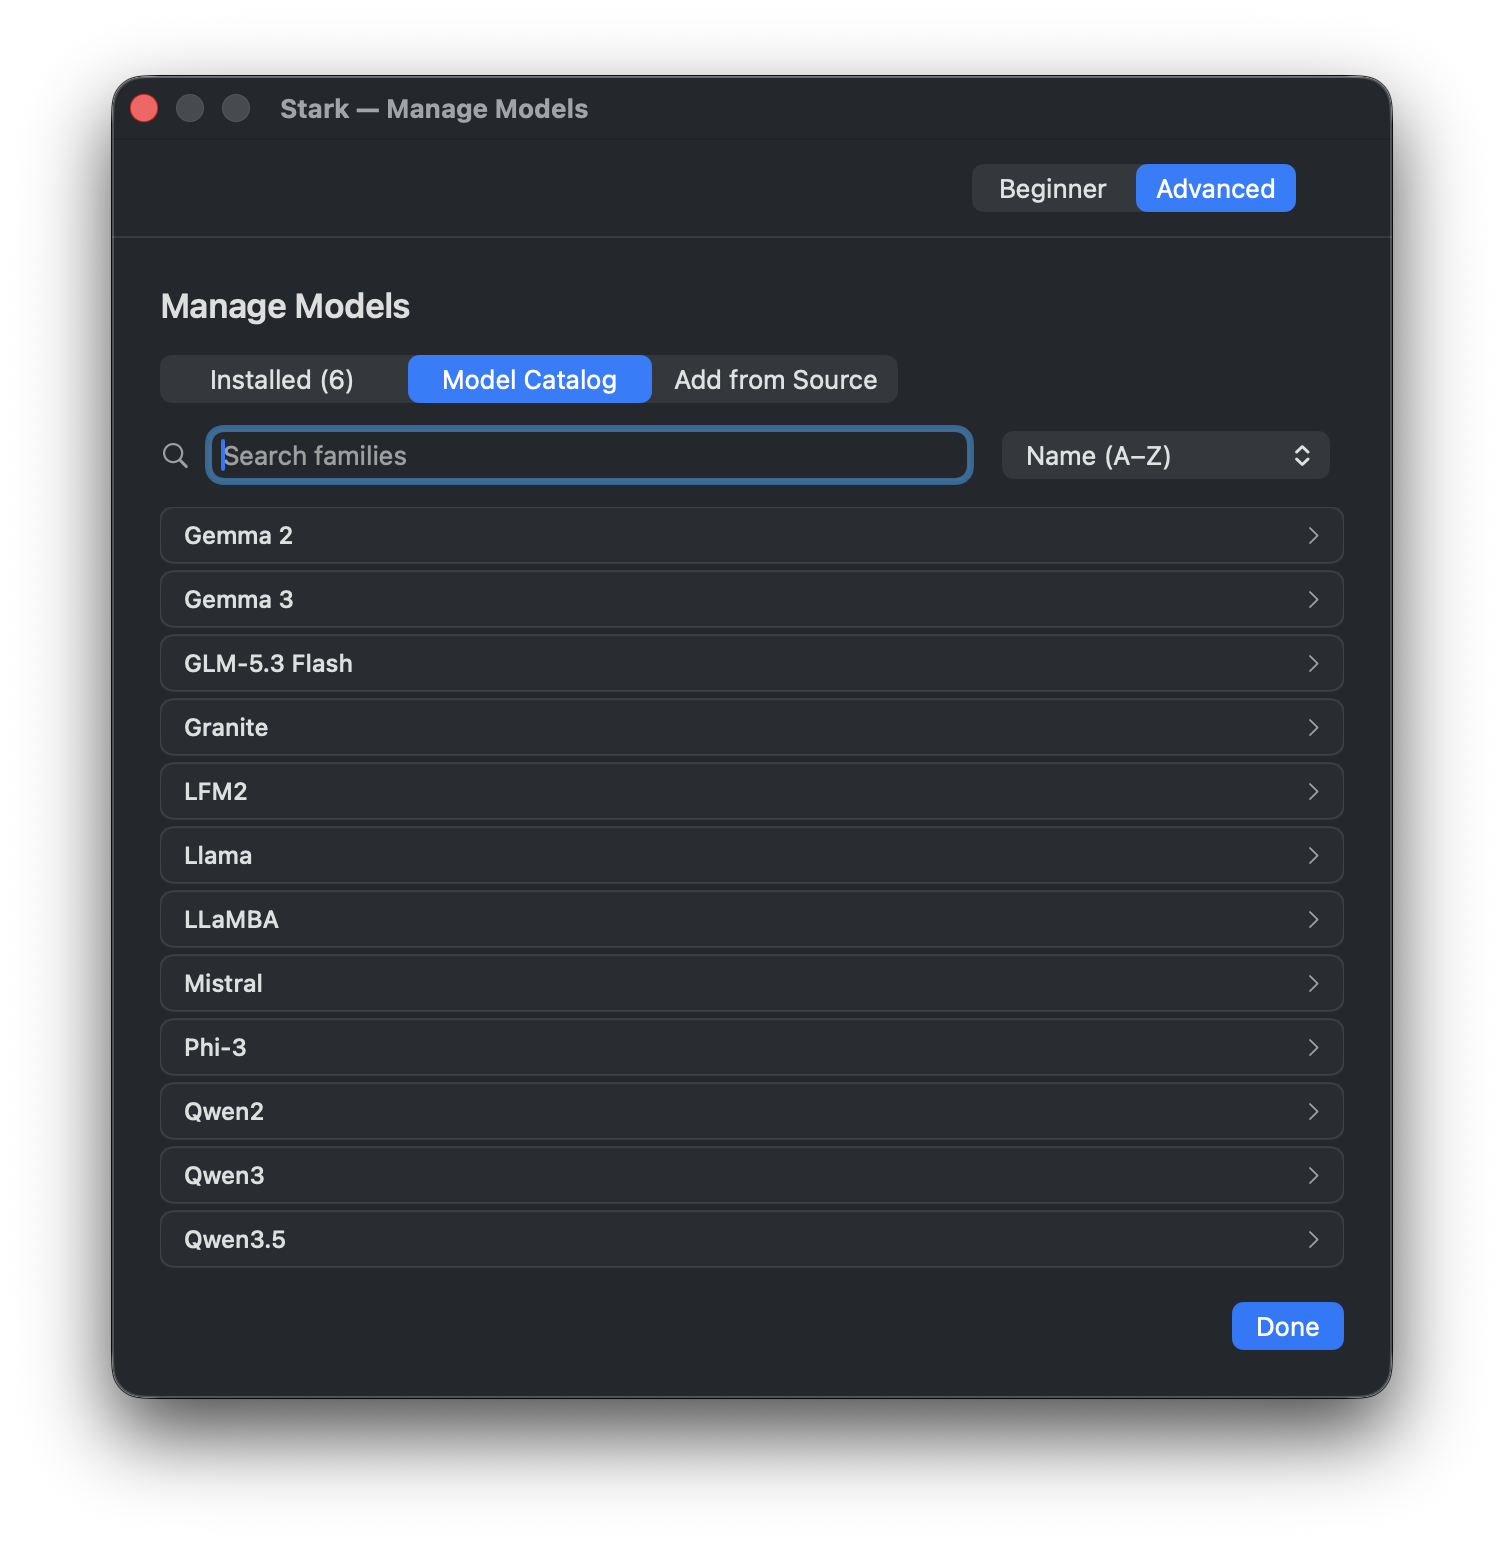
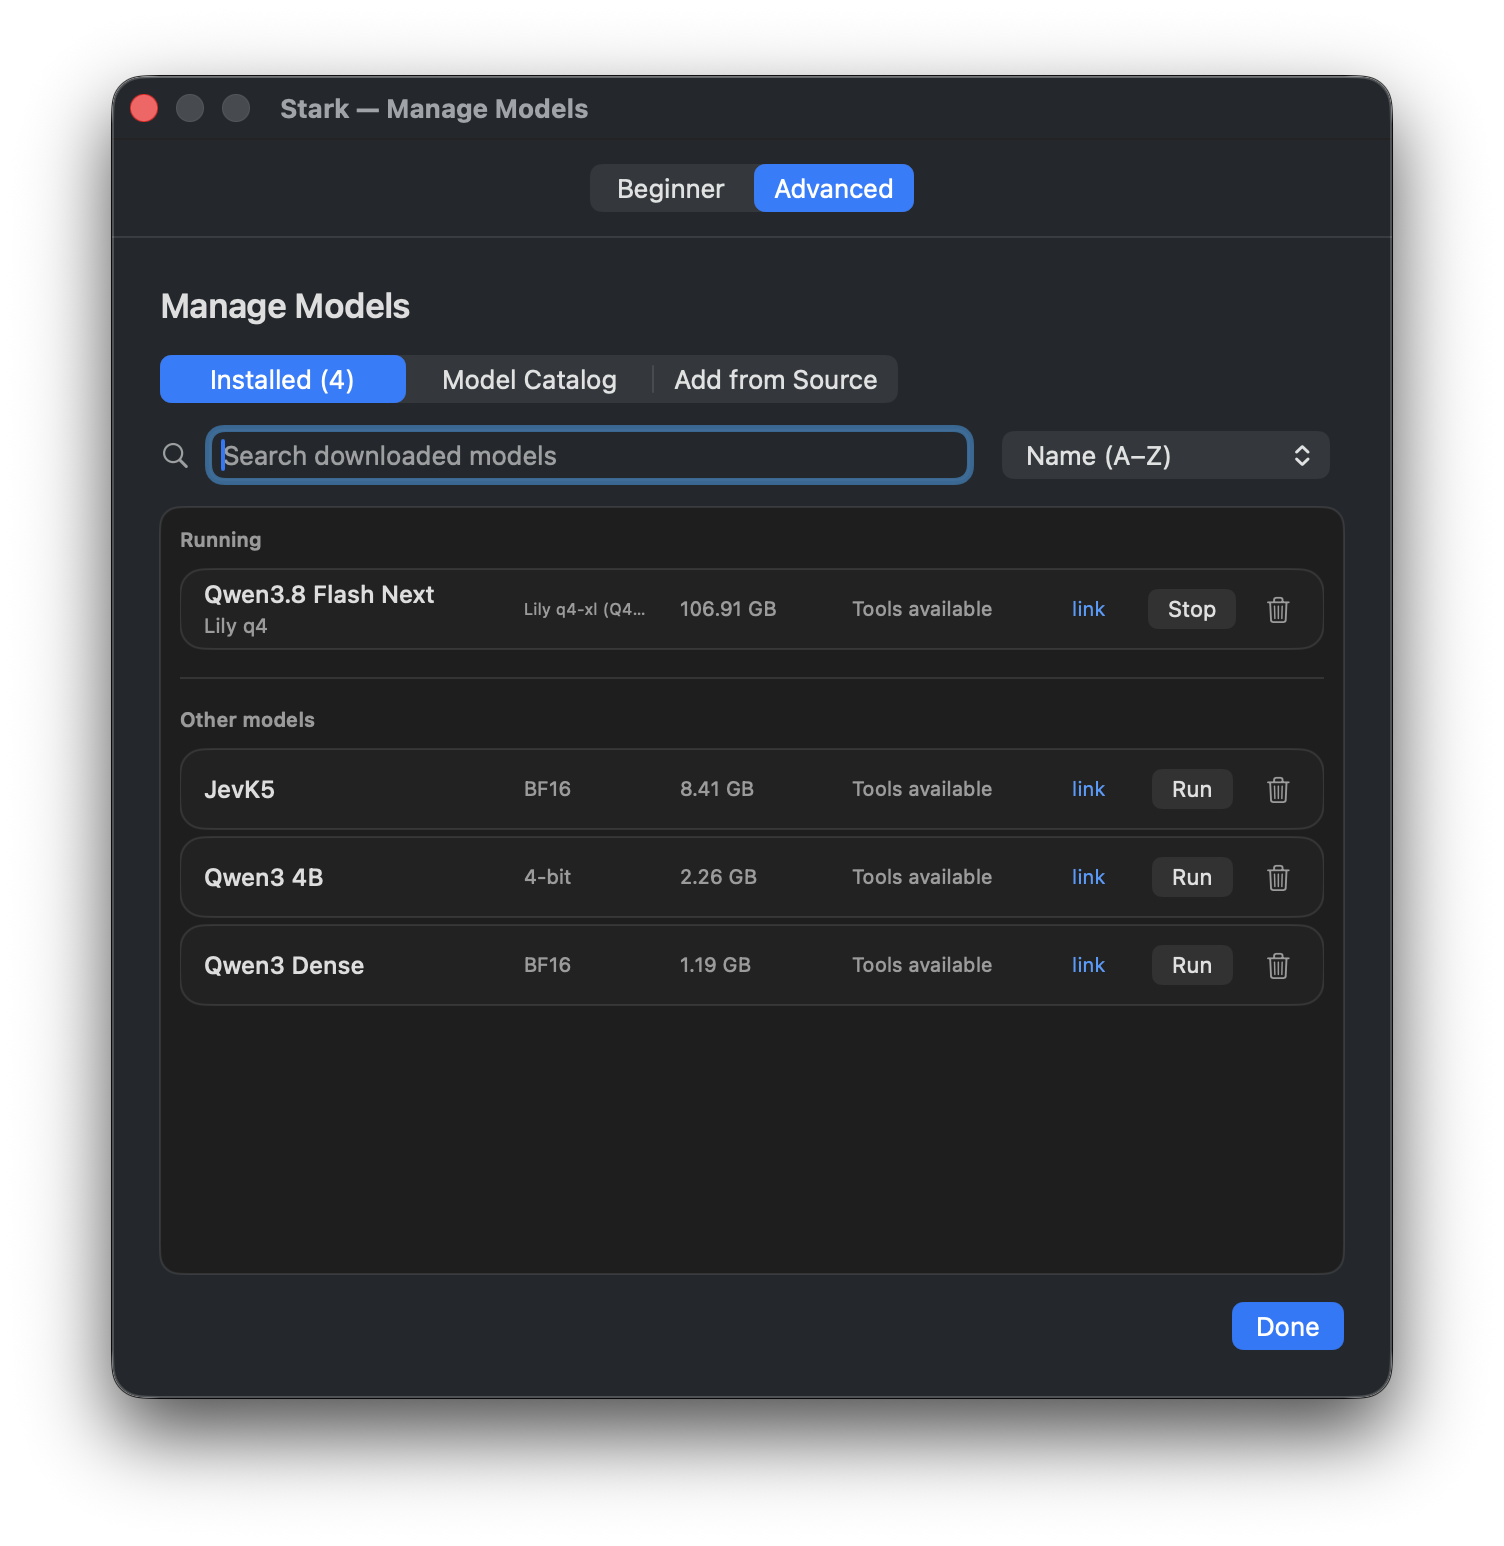
docs(website): refresh app screenshots and connections caption
AI-Assisted: codex

diff --git a/website/public/index.html b/website/public/index.html
@@ -50,9 +50,9 @@
     <section class="product-section section-pad wrap" id="product" aria-labelledby="product-title">
       <div class="story-heading"><p class="eyebrow">MEET THE MAC APP</p><h2 id="product-title">A home for your local AI.</h2><p>Choose a model, run it from your menu bar, and start chatting.</p></div>
       <div class="product-gallery">
-        <figure class="product-shot"><div class="product-shot-frame"><img src="assets/stark-guided-setup.png" width="1624" height="1594" alt="Earlier Stark Guided Setup with writing, files and coding starting points and a five-step setup sidebar" loading="lazy" decoding="async"></div><figcaption><span class="shot-index">01 / GET STARTED</span><h3>Find a starting point.</h3><p>Guided setup helps you find a model for your Mac. Earlier interface shown; the new flow is described below.</p></figcaption></figure>
-        <figure class="product-shot"><div class="product-shot-frame"><img src="assets/stark-model-catalog.png" width="1504" height="1546" alt="Stark Model Catalog with supported model families and tabs for installed models and source imports" loading="lazy" decoding="async"></div><figcaption><span class="shot-index">02 / MAKE IT YOURS</span><h3>Choose your model.</h3><p>Browse the catalog or import a compatible model.</p></figcaption></figure>
-        <figure class="product-shot"><div class="product-shot-frame"><img src="assets/stark-playground.png" width="1224" height="1586" alt="Stark Playground in Chat mode with a running model, a short greeting exchange, request statistics and a switch to Decision mode" loading="lazy" decoding="async"></div><figcaption><span class="shot-index">03 / USE PLAYGROUND</span><h3>Try a conversation.</h3><p>Write, ask questions and explore ideas locally.</p></figcaption></figure>
+        <figure class="product-shot"><div class="product-shot-frame"><img src="assets/stark-guided-setup.png" width="1624" height="1888" alt="Stark Guided Setup connecting a running local model to OpenCode in the beginner flow" loading="lazy" decoding="async"></div><figcaption><span class="shot-index">01 / GET STARTED</span><h3>Find a starting point.</h3><p>Guided setup helps you choose a model for your Mac and connect it to your work.</p></figcaption></figure>
+        <figure class="product-shot"><div class="product-shot-frame"><img src="assets/stark-model-catalog.png" width="1504" height="1546" alt="Stark Manage Models showing installed models, a running model and tabs for the model catalog and source imports" loading="lazy" decoding="async"></div><figcaption><span class="shot-index">02 / MAKE IT YOURS</span><h3>Choose your model.</h3><p>Browse the catalog or import a compatible model.</p></figcaption></figure>
+        <figure class="product-shot"><div class="product-shot-frame"><img src="assets/stark-connections.png" width="1364" height="1648" alt="Stark Connections showing a running local model and access allowed for OpenWork and OpenCode Desktop" loading="lazy" decoding="async"></div><figcaption><span class="shot-index">03 / CONNECT YOUR APPS</span><h3>Work in your favorite apps.</h3><p>Connect Stark to apps such as OpenWork or OpenCode Desktop to use your local model where you work.</p></figcaption></figure>
       </div>
     </section>
 

diff --git a/website/public/styles.css b/website/public/styles.css
@@ -1879,9 +1879,9 @@ code {
   aspect-ratio:var(--crop-width) / var(--crop-height);
   border-radius:10px
 }
-.product-shot:nth-child(1) { --source-width:1624; --crop-width:1400; --crop-height:1370 }
+.product-shot:nth-child(1) { --source-width:1624; --crop-width:1400; --crop-height:1664 }
 .product-shot:nth-child(2) { --source-width:1504; --crop-width:1280; --crop-height:1322 }
-.product-shot:nth-child(3) { --source-width:1224; --crop-width:1000; --crop-height:1362 }
+.product-shot:nth-child(3) { --source-width:1364; --crop-width:1140; --crop-height:1424 }
 .product-shot img {
   position:absolute;
   display:block;

diff --git a/website/README.md b/website/README.md
@@ -32,8 +32,8 @@ changing the pages. Run the repository policy check before committing.
   in the linked documents under `docs/`. The setup guide explains RAM-aware
   recommendations, manually refreshed offline rankings and the distinction
   between parent-model scores and quantized-export quality. Label the new flow
-  as development work until a release contains it; the existing setup screenshot
-  depicts the earlier interface.
+  as development work until a release contains it. The owner-supplied setup
+  screenshot shows the new flow; it does not establish release availability.
 - The Images panel retains existing dense Qwen3.5 BF16 guidance and links to a
   development update for the added Qwen dense/MoE, retained Lily and Gemma paths.
   The on-site image coverage section distinguishes recorded complete-artifact
@@ -57,7 +57,7 @@ together.
 
 The owner-supplied logo and screenshots retain their original bytes. See
 [brand provenance](../docs/brand/README.md) and the
-[screenshot replacement record](../docs/archive/runs/2026-11-06-website-screenshot-replacements.md).
+[latest screenshot replacement record](../docs/archive/runs/2026-11-11-website-screenshot-replacements.md).
 Keyboard-operable tabs, focus indicators, reduced-motion handling and the skip
 link remain part of the site. `robots.txt`, `sitemap.xml` and `404.html` ship
 alongside the three pages.

diff --git a/docs/archive/runs/2026-11-11-website-screenshot-replacements.md b/docs/archive/runs/2026-11-11-website-screenshot-replacements.md
@@ -1,0 +1,13 @@
+# Website screenshot replacements — 2026-11-11
+
+The owner supplied replacements for homepage screenshots 01 and 02, then selected a Connections capture for 03. These supersede the screenshots recorded on 6 November. Original PNG bytes and transparency are preserved. CSS trims the transparent window margins using each capture's actual window dimensions.
+
+| Asset under `website/public/assets/` | Dimensions | SHA-256 |
+| --- | --- | --- |
[3 lines of base64/hex data omitted]
+
+The first capture shows the beginner OpenCode handoff; the second shows installed models. The third replaces the Playground capture and its caption describes using a local model in OpenWork or OpenCode Desktop. Alternative text and intrinsic image dimensions match the selected captures. The images do not establish an app build or release availability.
+
+Validation: the static site build and repository policy check passed. A local browser preview confirmed the three selected screenshots and updated gallery copy, with the window margins trimmed.
